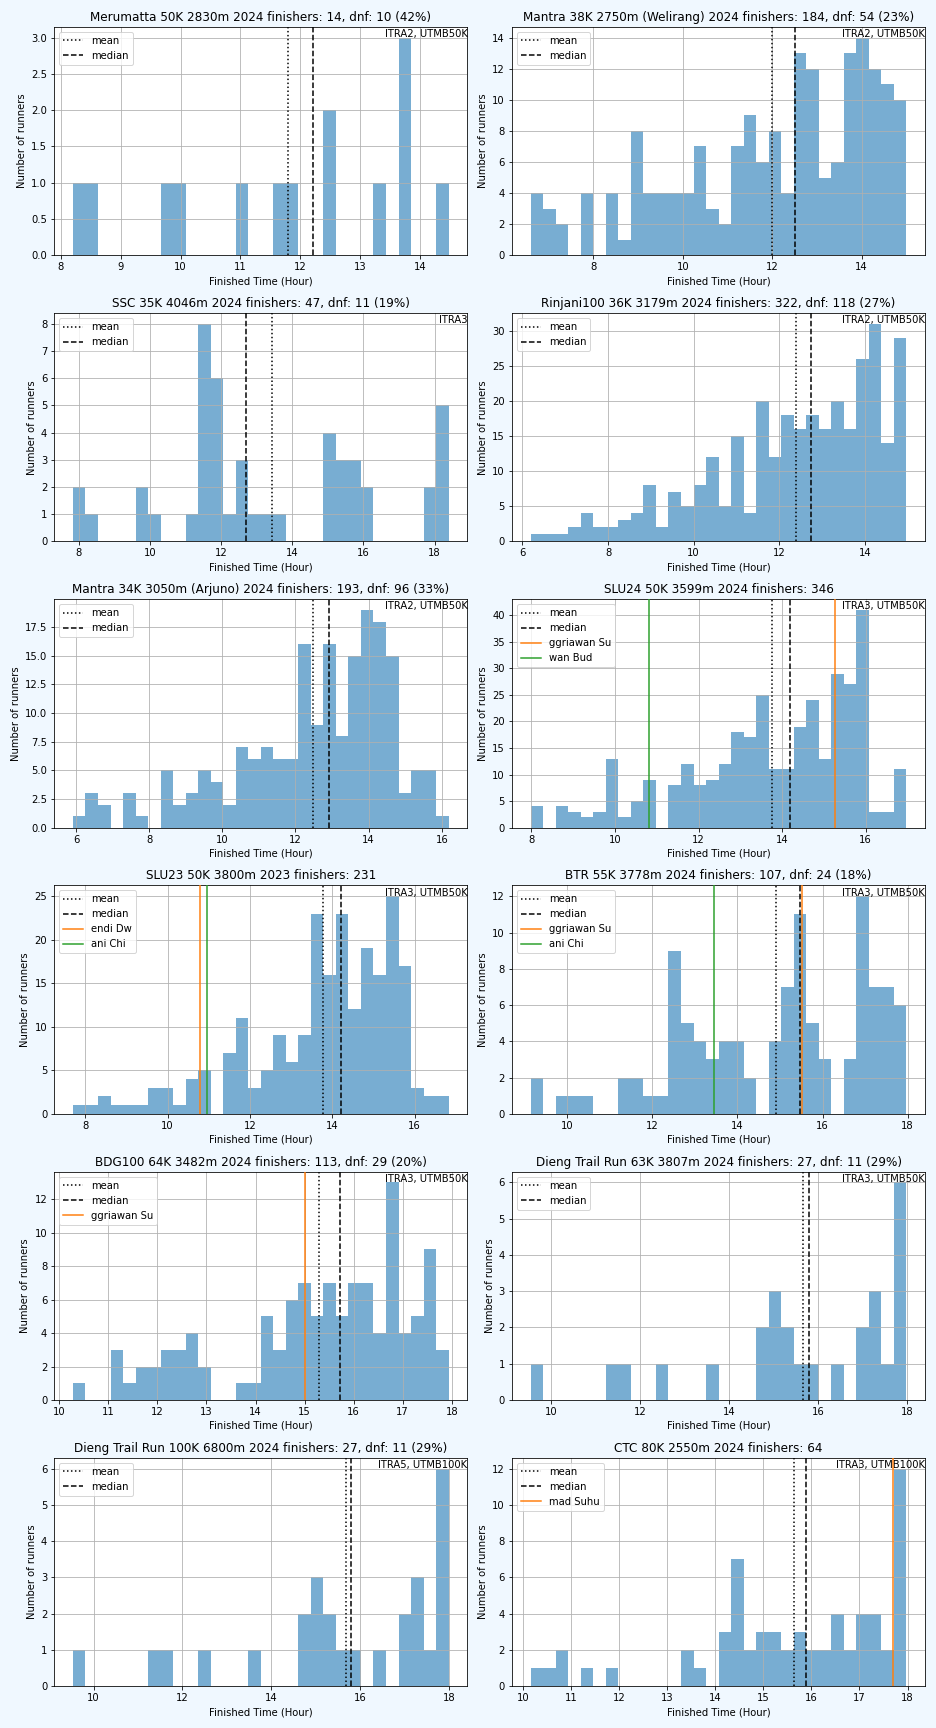
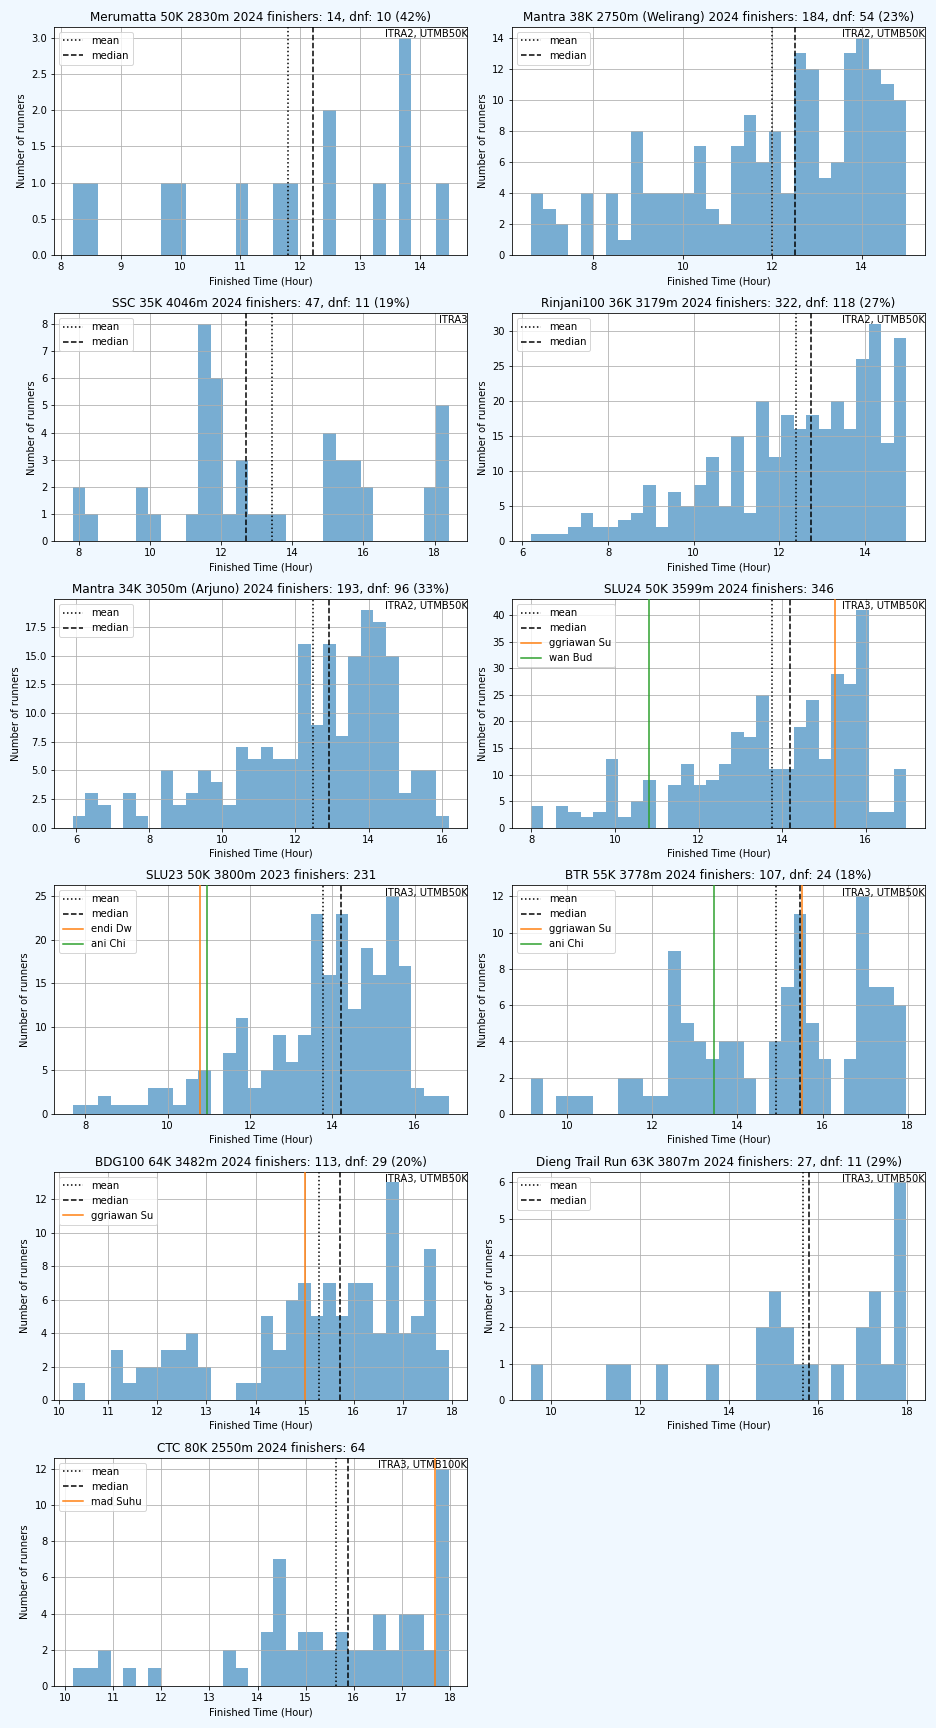
Fixed data typo for DTR 100

diff --git a/README.md b/README.md
@@ -50,7 +50,7 @@ Event-event yg terdata:
     - links: [homepage](https://diengcalderarace.com) |  [instagram](https://www.instagram.com/diengcalderarace/) | [ITRA](https://itra.run/Races/RaceDetails/93604/)
 8. **Dieng Trail Run** (Dieng Trail Run): tanggal 2024-09-22
     - 4 lomba: [12](#DiengTrailRun12), [25](#DiengTrailRun25), [63](#DiengTrailRun63), [100](#DiengTrailRun100) km
-    - diikuti sekitar 623 peserta
+    - diikuti sekitar 594 peserta
     - links: [homepage](https://diengtrailrun.id) |  [instagram](https://www.instagram.com/diengtrailrun/) | [ITRA](https://itra.run/Races/RaceDetails/95482/)
 9. **Jabar Ultra Trail** (JUT): tanggal 2024-06-09
     - 2 lomba: [22](#JUT22), [55](#JUT55) km
@@ -209,7 +209,6 @@ Enjoy dan fork/PR ya.
 | <A name="BTR55"></A> [BTR](https://www.instagram.com/balitrailrunning/) | 55 | 3778 | 107 | 15.5 / 18.0 | 24 (18%) |  <img src="images/th-ITRA3.png" height="16"> <img src="images/th-UTMB50K.png" height="16"> | 9 | 270 |
 | <A name="BDG10064"></A> [BDG100](https://www.instagram.com/bdg100_official/) | 64 | 3482 | 113 | 15.7 / 17.9 | 29 (20%) |  <img src="images/th-ITRA3.png" height="16"> <img src="images/th-UTMB50K.png" height="16"> | 6 | 10 |
 | <A name="DiengTrailRun63"></A> [Dieng Trail Run](https://www.instagram.com/diengtrailrun/) | 63 | 3807 | 27 | 15.8 / 18.0 | 11 (29%) |  <img src="images/th-ITRA3.png" height="16"> <img src="images/th-UTMB50K.png" height="16"> | 7 | 300 |
-| <A name="DiengTrailRun100"></A> [Dieng Trail Run](https://www.instagram.com/diengtrailrun/) | 100 | 6800 | 27 | 15.8 / 18.0 | 11 (29%) |  <img src="images/th-ITRA5.png" height="16"> <img src="images/th-UTMB100K.png" height="16"> | 9 | 390 |
 | <A name="CTC80"></A> [CTC](https://www.instagram.com/ctc.ultra/) | 80 | 2550 | 64 | 15.9 / 18.0 |      |  <img src="images/th-ITRA3.png" height="16"> <img src="images/th-UTMB100K.png" height="16"> | 3 | 370 |
 
 ![stat](images/12-16h.png "Statistik")
@@ -230,6 +229,7 @@ Enjoy dan fork/PR ya.
 | <A name="BTR85"></A> [BTR](https://www.instagram.com/balitrailrunning/) | 85 | 5250 | 30 | 20.4 / 25.0 | 7 (19%) |  <img src="images/th-ITRA4.png" height="16"> <img src="images/th-UTMB100K.png" height="16"> | 7 | 320 |
 | <A name="JUT55"></A> [JUT](https://www.instagram.com/jabarultra/) | 55 | 6010 | 7 | 21.2 / 23.4 | 12 (63%) |  <img src="images/th-ITRA3.png" height="16"> <img src="images/th-UTMB100K.png" height="16"> | 12 | 220 |
 | <A name="UITrail80"></A> [UI Trail](https://www.instagram.com/uitrailrace/) | 80 | 4800 | 11 | 21.2 / 23.7 | 18 (62%) |  <img src="images/th-ITRA4.png" height="16"> | 8 | 320 |
+| <A name="DiengTrailRun100"></A> [Dieng Trail Run](https://www.instagram.com/diengtrailrun/) | 100 | 6800 | 3 | 22.7 / 27.2 | 6 (67%) |  <img src="images/th-ITRA5.png" height="16"> <img src="images/th-UTMB100K.png" height="16"> | 9 | 390 |
 
 ![stat](images/16-24h.png "Statistik")
 
